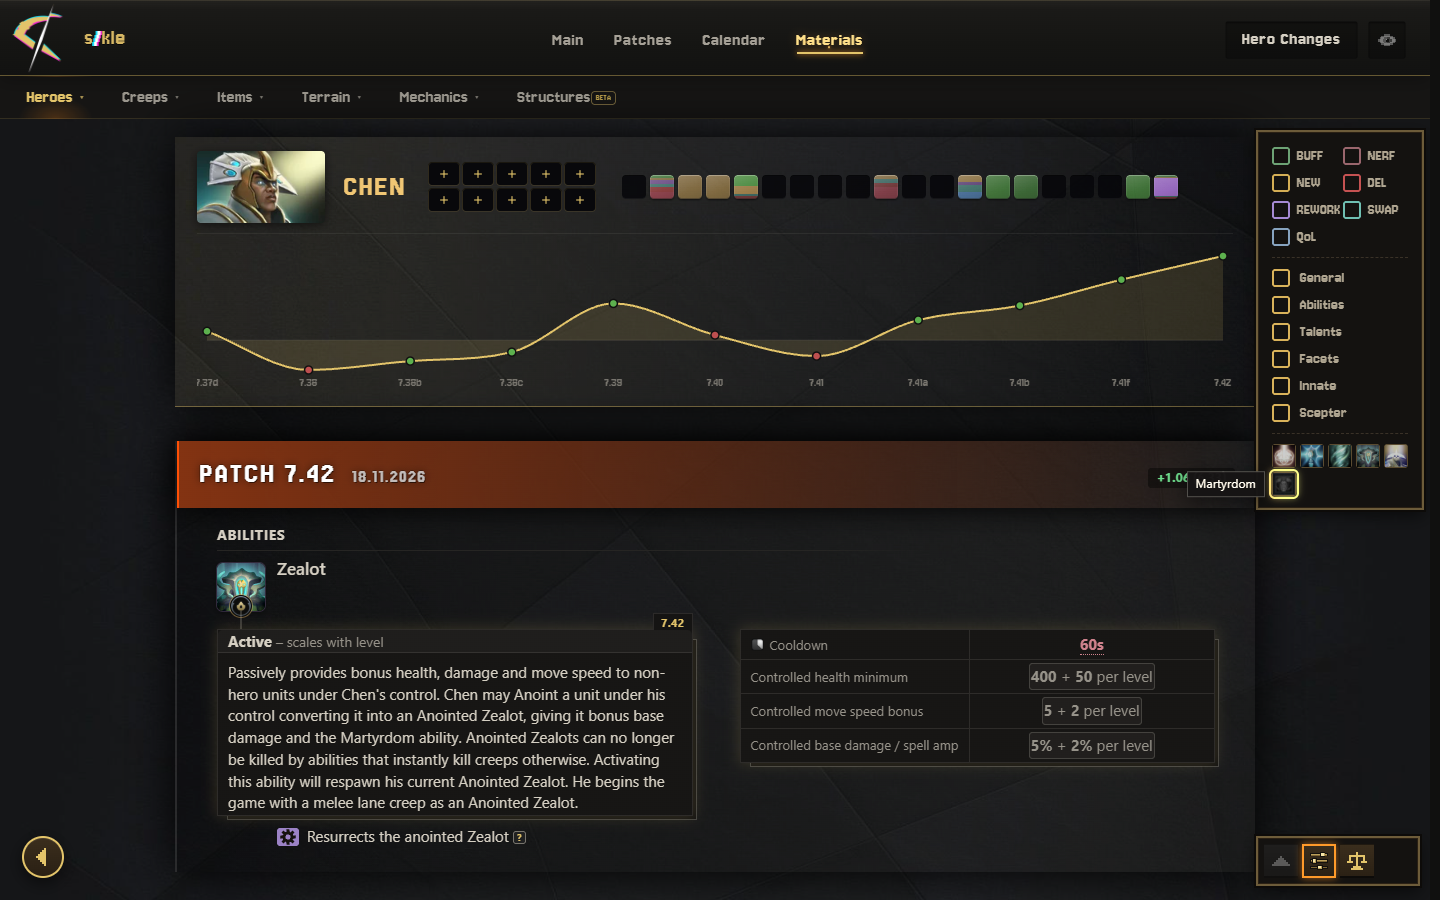
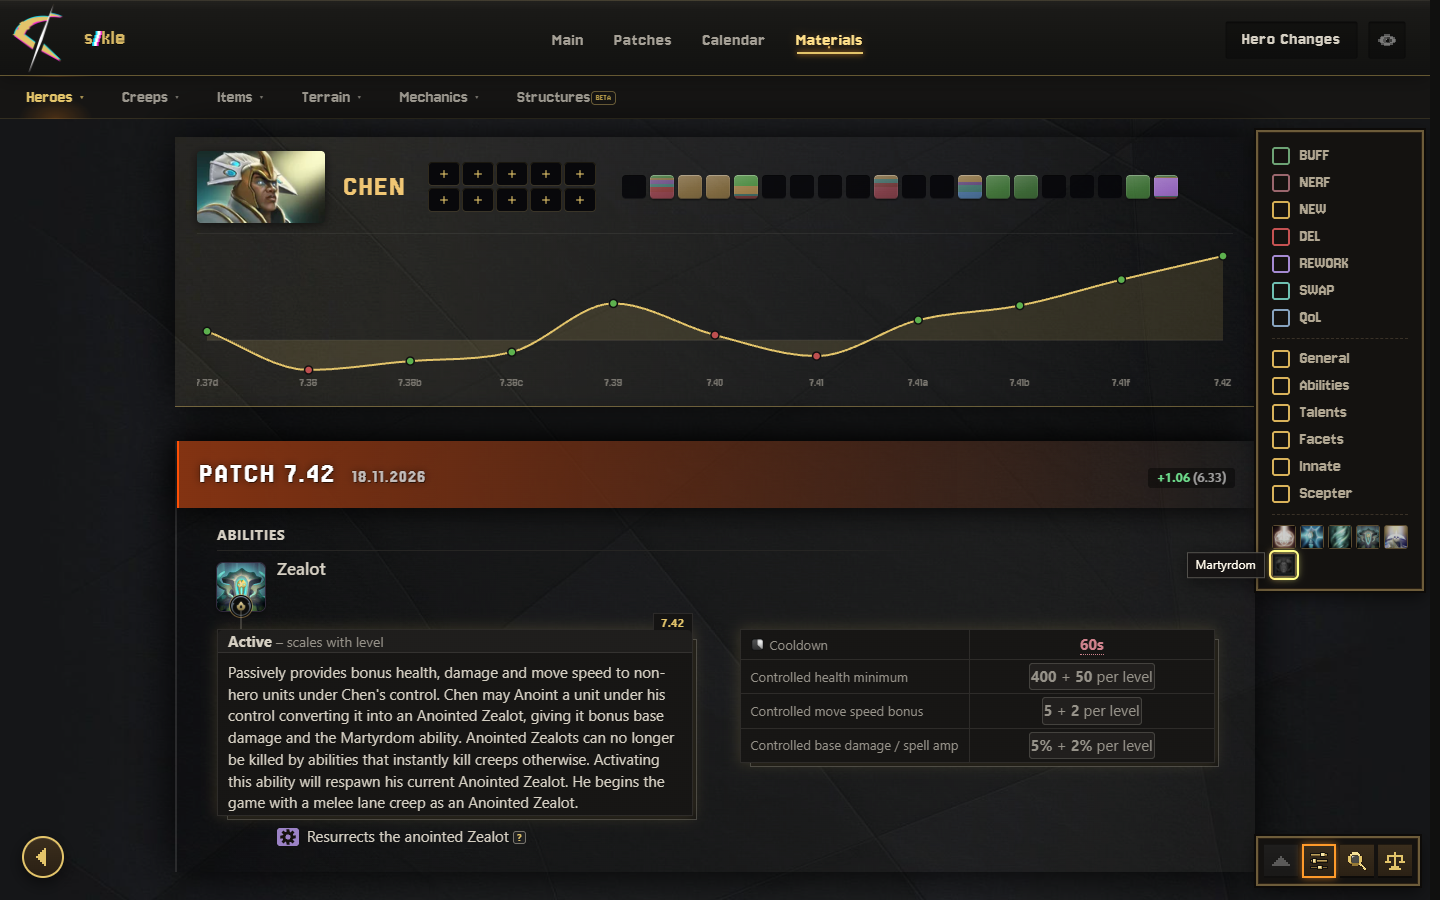
fix(entity): filter card at the patch pages' size in one column, search in the corner stack (one result per name)

Changed region(s): [[0.8125, 0.1556, 1.0, 0.6533], [0.9375, 0.9333, 1.0, 0.9644]]

diff --git a/src/js/patch-page.js b/src/js/patch-page.js
@@ -186,8 +186,7 @@
   });
 
   // ---- CATEGORIES FILTER ----
-  // Tag every element between adjacent <h2 class="section"> headers with the
-  // preceding section's slug so the buttons can hide non-matching siblings.
+  // Tag every element between adjacent <h2 class="section"> headers with the preceding section's slug (buttons hide the rest).
   (function indexSections() {
     const headers = document.querySelectorAll('h2.section[data-section]');
     headers.forEach(h => {
@@ -350,8 +349,7 @@
     }, isFacet && !head.querySelector('.ability-chip') ? facetLook(block.querySelector(':scope > .facet-icon-wrap')) : null));
   });
 
-  // An ability or facet says whose it is: 7.38 has Riverborn Aura on four creeps (owner 2026-11-07: "в поиске тоже
-  // непонятно, какая к чему")
+  // An ability or facet says whose it is: 7.38 has Riverborn Aura on four creeps ("непонятно, какая к чему", 2026-11-07)
   entities.forEach(e => {
     if (e.kind !== 'ability' && e.kind !== 'facet') return;
     const eb = e.element.closest('.entity-block');
@@ -365,6 +363,8 @@
     const own = e.owner + "'s ";
     if (e.name.startsWith(own)) e.name = e.name.slice(own.length);
   });
+  // A hero / item page has an ability once per patch: one result per name, the newest (owner 2026-11-24)
+  for (let i = 0, k, seenNames = new Set(); document.body.classList.contains('entity-page') && i < entities.length; i++) if (seenNames.has(k = entities[i].kind + '|' + entities[i].name.toLowerCase())) entities.splice(i--, 1); else seenNames.add(k);
 
   function escapeHtml(s) { return s.replace(/[&<>]/g, c => ({'&':'&amp;','<':'&lt;','>':'&gt;'}[c])); }
   function highlight(name, q) {

diff --git a/src/css/pixel-skin-filters.css b/src/css/pixel-skin-filters.css
@@ -11,13 +11,11 @@
 .ec-ab-btn.ec-ab-icon.ec-ab-old img { filter: grayscale(1) brightness(0.8); opacity: 0.45; }
 .ec-ab-btn.ec-ab-icon.ec-ab-old:hover img, .ec-ab-btn.ec-ab-icon.ec-ab-old.active img { opacity: 0.8; }
 /* Hero / item pages: the filters in the patch pages' card at the right edge (owner 2026-11-24, mock "сетка значков"):
-   tags in two columns, the abilities as a grid of icons, 5 a row; the name is the tip, to the left of the icon */
+   tags and sections in one column at the patch pages' size (owner 2026-11-24: two columns at 16px read smaller and
+   REWORK touched SWAP), the abilities as a grid of icons, 5 a row; the name is the tip, to the left of the icon */
 /* under the site's header rather than mid-height: a long ability grid (Invoker) reached the corner buttons and the
    card started put away */
 .filter-pop.ec-rail { top: 130px; right: 6px; transform: none; }   /* 6px: at 1440 wide it clears the 1080 column */
-.ec-rail .filter-rail .legend-tags { display: grid; grid-template-columns: 1fr 1fr; column-gap: 6px; }
-.ec-rail .filter-rail .legend-tags .fp-word, .ec-rail .filter-rail .cat-filter-btn .fp-word { font-size: 16px; }
-.ec-rail .filter-rail .legend-tags .badge.filter-btn { gap: 7px; }
 .ec-rail .filter-rail .ec-scope-btn.active { background: none; border: 0; }
 .ec-ab-grid { display: grid; grid-template-columns: repeat(5, 24px); gap: 4px; justify-content: space-between;
   border-top: 1px dashed var(--px-line); margin-top: 8px; padding-top: 10px; }

diff --git a/patch/page.py b/patch/page.py
@@ -85,6 +85,13 @@ FILTER_TAGS = (("buff", "buff-text", "BUFF"), ("nerf", "nerf-text", "NERF"), ("n
 # tools/pixel_icons/filter_icon.py)
 FILTER_FAB = ('<button class="filter-fab" id="filter-fab" type="button" aria-expanded="true" aria-controls="filter-pop" '
               'aria-label="Filters"></button>')
+# the search: a loupe in the corner stack and its field above it; hero / item pages use them too (owner 2026-11-24)
+SEARCH_FAB = ('<button class="search-fab" id="search-fab" type="button" aria-label="Search heroes, items, abilities" '
+              'aria-expanded="false" aria-controls="search-pop" title="Search (\\ or /)" aria-keyshortcuts="Backslash Slash">'
+              '</button>')
+SEARCH_POP = ('<div class="search-pop" id="search-pop" hidden><div class="search-box">'
+              '<input type="text" id="entity-search" placeholder="Search heroes, items, abilities…" autocomplete="off" '
+              'spellcheck="false"><div class="search-results" id="search-results"></div></div></div>')
 
 
 def filter_pop_html():
@@ -117,17 +124,13 @@ def write_footer():
     # "Top" jumps at once, no ride up ("чтобы телепортировало наверх, а не везло").
     W('<div class="corner-dock">'
       '<button class="back-to-top at-top btt-wait" aria-label="Back to top" onclick="window.scrollTo({top:0, behavior:\'instant\'})">'
-      '</button>' + FILTER_FAB +
-      '<button class="search-fab" id="search-fab" type="button" aria-label="Search heroes, items, abilities" '
-      'aria-expanded="false" aria-controls="search-pop" title="Search (\\ or /)" aria-keyshortcuts="Backslash Slash">'
-      '</button><button class="dyn-w-fab" id="dyn-weights-btn" type="button" aria-label="Weighted scores"></button>'
+      '</button>' + FILTER_FAB + SEARCH_FAB +
+      '<button class="dyn-w-fab" id="dyn-weights-btn" type="button" aria-label="Weighted scores"></button>'
       # (no button dimming the old cards: removed 2026-11-09, "фильтр блюра … удалить, как и функцию" — the old
       # ability card lies under the new one instead, patch/card_deck.py)
       '</div>')
     # the search field opens above the panel ("/" opens it, Esc closes)
-    W('<div class="search-pop" id="search-pop" hidden><div class="search-box">'
-      '<input type="text" id="entity-search" placeholder="Search heroes, items, abilities…" autocomplete="off" spellcheck="false">'
-      '<div class="search-results" id="search-results"></div></div></div>')
+    W(SEARCH_POP)
     # the filters' card at the right edge, middle of the screen; the panel's filter button hides it
     W(filter_pop_html())
     W(f'<script defer src="../src/scripts-base.js?v={_ASSET_VERSION}"></script>')

diff --git a/tests/test_filters_toolbar.py b/tests/test_filters_toolbar.py
@@ -95,7 +95,7 @@ def test_the_filters_open_from_a_button_of_the_corner_stack():
     from patch.page import FILTER_FAB
     assert FILTER_FAB.startswith('<button class="filter-fab" id="filter-fab" type="button" aria-expanded="true"')
     page_src = (ROOT / "patch" / "page.py").read_text(encoding="utf-8")
-    assert "'</button>' + FILTER_FAB +" in page_src and "FILTER_TOGGLE" not in page_src
+    assert "'</button>' + FILTER_FAB + SEARCH_FAB +" in page_src and "FILTER_TOGGLE" not in page_src
     assert html.count('<span class="fp-word">') == 9 and "Filters" not in html
     # look 6 of the mock, "галочки в рамке": a framed card, a box before each word, filled when ticked
     assert "fp-tile" not in html
@@ -114,7 +114,7 @@ def test_the_filters_open_from_a_button_of_the_corner_stack():
     dock = page_src[page_src.index("W('<div class=\"corner-dock\">'"):]
     # "top" shows no colour until the script knows where the page is: neither a gold flash at the top ("при ctrl+f5
     # кнопка «наверх» на секунду золотая") nor a grey one lower down ("на секунду серая, потом уже золотая")
-    order = [dock.index(k) for k in ('class="back-to-top at-top btt-wait"', "FILTER_FAB", 'class="search-fab"',
+    order = [dock.index(k) for k in ('class="back-to-top at-top btt-wait"', "FILTER_FAB", "SEARCH_FAB",
                                      'class="dyn-w-fab"')]
     assert order == sorted(order)
     js = (ROOT / "src" / "js" / "filter-fab.js").read_text(encoding="utf-8")

diff --git a/builders/entity_changes.py b/builders/entity_changes.py
@@ -670,12 +670,13 @@ def _entity_page(e: dict, asset: str, latest: str, dyn: dict) -> str:
                    f'<span class="ec-date">{_esc(p["date"])}</span>{label}{score}</h2>\n{body}\n</section>\n')
     # no hover tips on the corner buttons, as on the patch pages (owner 2026-09-28)
     # the corner buttons in one framed panel as on the patch pages: top, filters (when there are any), weights
-    from patch.page import FILTER_FAB
+    from patch.page import FILTER_FAB, SEARCH_FAB, SEARCH_POP
     out.append('<div class="corner-dock"><button class="back-to-top at-top btt-wait" aria-label="Back to top" '
                'onclick="window.scrollTo({top:0, behavior:\'instant\'})"></button>'
-               + (FILTER_FAB if e["patches"] else "")
+               + (FILTER_FAB + SEARCH_FAB if e["patches"] else "")
                + '<button class="dyn-w-fab" id="dyn-weights-btn" type="button" aria-label="Weighted scores"></button></div>'
-               f'<script defer src="../src/scripts-entity.js?v={asset}"></script>\n</div></body></html>\n')
+               + (SEARCH_POP if e["patches"] else "")
+               + f'<script defer src="../src/scripts-entity.js?v={asset}"></script>\n</div></body></html>\n')
     return "".join(out)
 
 

diff --git a/AGENTS.md b/AGENTS.md
@@ -35,9 +35,9 @@
 - Страница героя / предмета: в шапке под именем — накопительный график силы (сумма весов правок по патчам, гладкий,
   точка зелёная/красная по правке патча, клик — к патчу); меньше 3 патчей с правками — графика нет; на телефоне
   подписан каждый 2–3-й патч (владелец 2026-11-24, `src/js/entity-curve.js`, `entity_changes._curve_box`).
-- Страница героя / предмета: фильтры — карточка справа, как на патчах (`entity_changes._rail`): теги в два столбца,
-  разделы квадратными галочками (Shard / Scepter без слова Aghanim), способности — сетка значков по 5, удалённые
-  под «Removed»; кнопки в углу — общий `corner-dock`. Выбранная иконка способности — золотое кольцо 2px со свечением;
+- Страница героя / предмета: фильтры — карточка справа, как на патчах (`entity_changes._rail`): теги и разделы в один
+  столбец шрифтом как на патчах, разделы квадратными галочками (Shard / Scepter без слова Aghanim), способности — сетка значков по 5, удалённые
+  под «Removed»; кнопки в углу — общий `corner-dock` с поиском (одна строка на имя). Выбранная иконка способности — золотое кольцо 2px со свечением;
   выбранные предметы прячет кнопка «Items» среди разделов, не удаляя их; способность, которую игра выдаёт из кода (Martyrdom у Зелота Chen), — не
   removed: `data/rules/abilities_granted_in_code.json` (владелец 2026-11-24).
 - Шапка в два этажа как Hero Stats: `tr.cat-row` + `th.cat-head`, столбец без группы — `th.th-tall rowspan=2`.

diff --git a/docs/agent-rules/ui-style.md b/docs/agent-rules/ui-style.md
@@ -208,6 +208,9 @@ Item Potency, Dormant Curio, AoE Increase, Terrain Stats) и таблицы ме
   «shard/scepter без Aghanim слова и с квадратным чекбоксом, как и везде». Карточка стоит под шапкой (`top:130px`), а не
   по середине экрана: длинная сетка Invoker доставала до угловых кнопок, и `filter-fab.js` прятал карточку; `right:6px`,
   иначе на 1440 она задевала колонку 1080 на 3px и тоже пряталась. Подсказка значка — слева от него.
+  Потом: «почему размер шрифта у тегов типа General меньше, чем на страницах патчей? rework слишком близко к swap;
+  поиск отсутствует» — теги и разделы в один столбец, шрифт как на патчах (свой размер не задавать); поиск
+  `SEARCH_FAB` / `SEARCH_POP` из `patch/page.py`, на странице героя одна строка результата на имя.
 - Угловые кнопки (2026-11-24): стрелка «назад» стояла правее середины (вес треугольника у основания) — viewBox сдвинут на
   2; серая «вверх» наверху страницы подсвечивалась при наведении — у `.at-top:hover` подсветки нет.
 - Фильтры страницы героя (2026-11-24): «почти не видно, когда выбрана иконка способности — настолько слабая обводка» →
